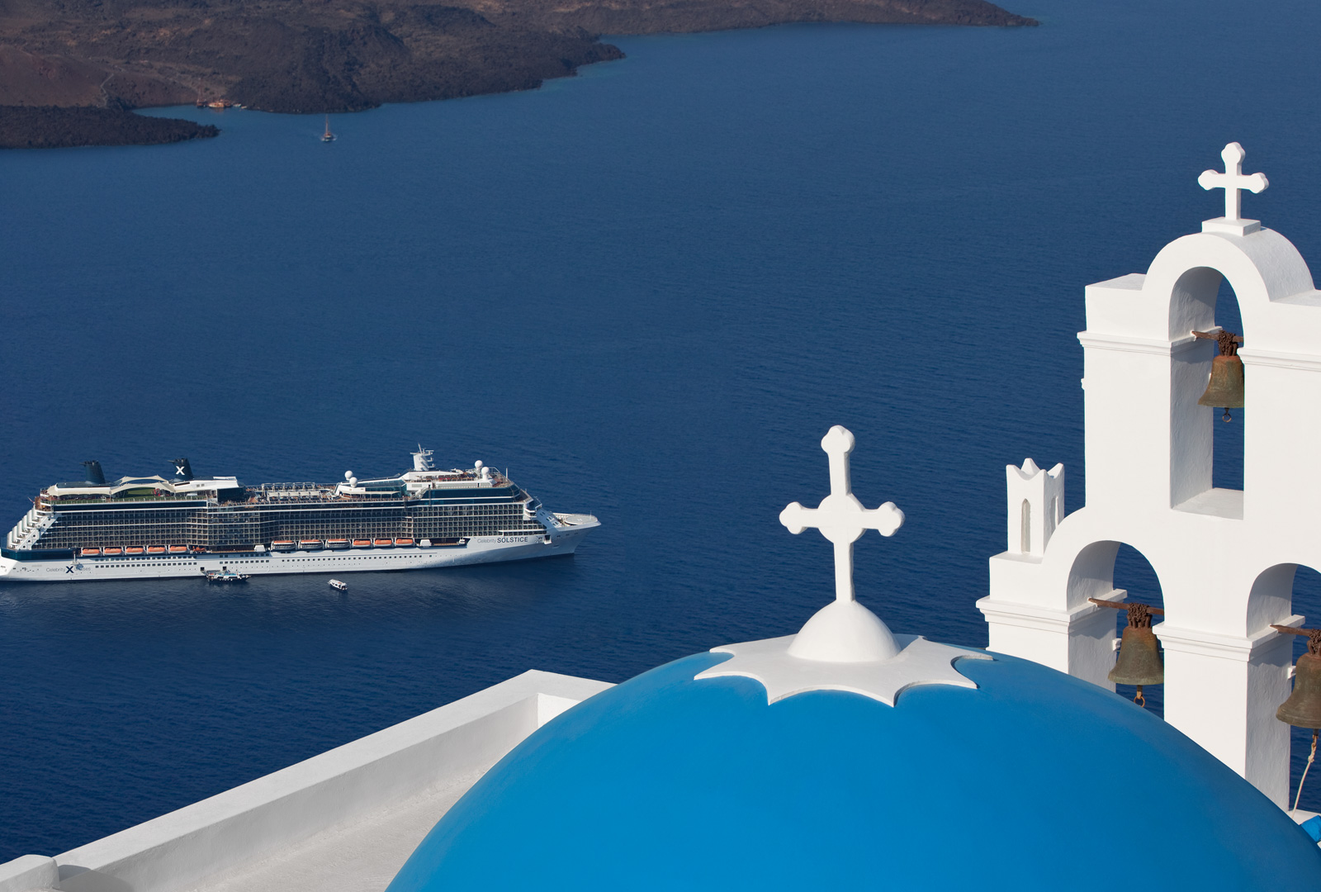
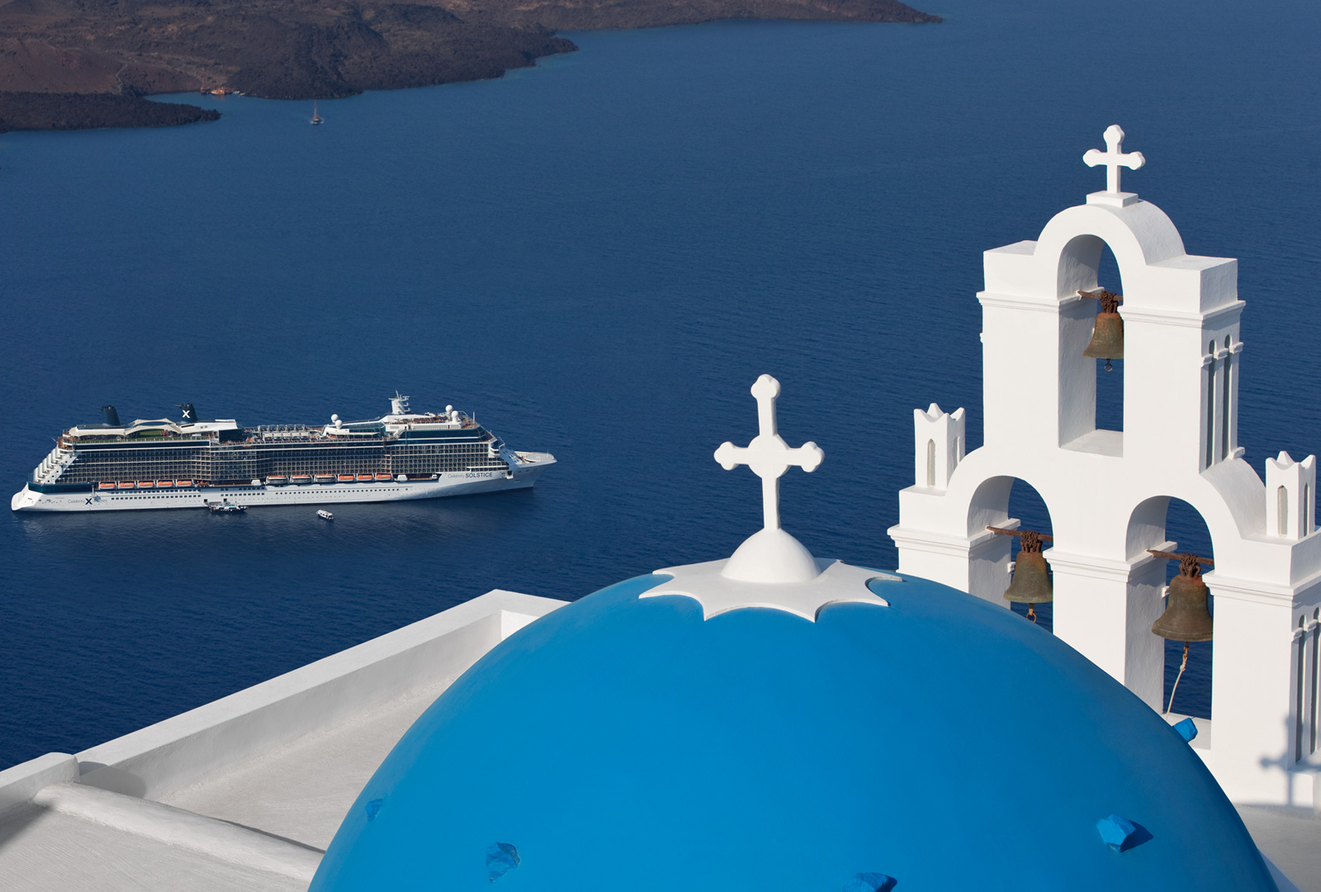
인트로 BG이미지 변경

diff --git a/src/css/celebrity.css b/src/css/celebrity.css
@@ -1,269 +1,1 @@
-@charset "UTF-8";
-/*  Nanum Gothic (Korean) http://www.google.com/webfonts/earlyaccess */
-@font-face { font-family: 'Nanum Gothic'; font-style: normal; font-weight: 700; src: url(../font/NanumGothic-Bold.eot); src: url(../font/NanumGothic-Bold.eot?#iefix) format("embedded-opentype"), url(../font/NanumGothic-Bold.woff2) format("woff2"), url(../font/NanumGothic-Bold.woff) format("woff"), url(../font/NanumGothic-Bold.ttf) format("truetype"); }
-@font-face { font-family: 'Nanum Gothic'; font-style: normal; font-weight: 400; src: url(../font/NanumGothic-Regular.eot); src: url(../font/NanumGothic-Regular.eot?#iefix) format("embedded-opentype"), url(../font/NanumGothic-Regular.woff2) format("woff2"), url(../font/NanumGothic-Regular.woff) format("woff"), url(../font/NanumGothic-Regular.ttf) format("truetype"); }
-@font-face { font-family: 'Nanum Gothic'; font-style: normal; font-weight: 800; src: url(../font/NanumGothic-ExtraBold.eot); src: url(../font/NanumGothic-ExtraBold.eot?#iefix) format("embedded-opentype"), url(../font/NanumGothic-ExtraBold.woff2) format("woff2"), url(../font/NanumGothic-ExtraBold.woff) format("woff"), url(../font/NanumGothic-ExtraBold.ttf) format("truetype"); }
-/* common */
-body, p, h1, h2, h3, h4, h5, h6, menu, ul, ol, li, dl, dt, dd, table, th, td, form, fieldset, legend, input, textarea, button, select { margin: 0; padding: 0; }
-
-body, input, textarea, select, button { font-family: 'Nanum Gothic','Apple SD Gothic Neo','Dotum','돋움',Sans-serif; font-size: 14px; }
-
-img, fieldset { border: 0; }
-
-menu, ul, ol { list-style: none; }
-
-em, address { font-style: normal; }
-
-a, a:link { text-decoration: none; }
-
-/* For Screen Reader */
-legend, .blind { position: absolute; top: 0; left: 0; width: 0; height: 0; overflow: hidden; visibility: hidden; font-size: 0; line-height: 0; }
-
-.ht { position: absolute; }
-
-.blind, .u_skip { visibility: hidden; overflow: hidden; position: absolute; left: -999em; width: 0; height: 0; font-size: 0; color: transparent; line-height: 0; }
-
-.slider-nav button, .footer .bi i, .footer .sns a i, .combobox .arrow, .header .bi i, .wrap.intro .intro_header_cover .bi i, .header .gnb, .header .gnb li, .symbol_ship .combox-box .arrow, .footer .bot_menu .bar, .footer .sns, .combobox, .wrap, .symbol_ship .combox-box, .symbol_thumbnail .grade .thumb_img, .symbol_thumbnail .grade .subs, .symbol_thumbnail .view_membership, .symbol_thumbnail .ask_membership, .info_list .thumbnail .btn_more_bahamas, .info_list .thumbnail .btn_more_bermuda { display: inline-block; *display: inline; *zoom: 1; vertical-align: top; }
-
-.slider-nav button, .footer .bi i, .footer .sns a i, .combobox .arrow, .header .bi i, .wrap.intro .intro_header_cover .bi i, .header .gnb, .header .gnb li, .symbol_ship .combox-box .arrow { background-image: url(../im/sp_gnb.png); background-repeat: no-repeat; vertical-align: top; }
-
-.slider-nav button { background-image: url(../im/sp_slide.png); border: 0; background-color: transparent; }
-
-.footer .bi i, .footer .sns a i, .combobox i.arrow, .header .bi i, .wrap.intro .intro_header_cover .bi i, .header i.gnb, .symbol_ship .combox-box i.arrow, .slider-nav button i, .section_head .tit i, .symbol_thumbnail .view_membership i, .symbol_thumbnail .ask_membership i, .info_list .thumbnail .btn_more i, .info_list .thumbnail .btn_more_bahamas i, .info_list .thumbnail .btn_more_bermuda i, .slider-nav button span { font: 0/0 a; color: transparent; }
-
-.footer .footer_cover, .symbol_thumbnail .grade, .info_list ul { zoom: 1; }
-.footer .footer_cover:after, .symbol_thumbnail .grade:after, .info_list ul:after { content: ''; clear: both; height: 0; display: block; visibility: hidden; }
-
-.footer, .header, .hero, .container, .article, .info_list { width: 916px; margin: 0 auto; position: relative; zoom: 1; }
-
-.wrap { background: url(../im/body_bg/bg_main_body.jpg) no-repeat center top; }
-.wrap.page_intro { background-image: url(../im/body_bg/bg_intro_body.jpg); }
-.wrap.page_club { background-image: url(../im/body_bg/bg_club_body.jpg); }
-.wrap.page_room { background-image: url(../im/body_bg/bg_room_body.jpg); }
-.wrap.page_sail { background-image: url(../im/body_bg/bg_sail_body.jpg); }
-.wrap.page_activity { background-image: url(../im/body_bg/bg_activity_body.jpg); }
-.wrap.page_spa { background-image: url(../im/body_bg/bg_spa_body.jpg); }
-.wrap.page_enter { background-image: url(../im/body_bg/bg_enter_body.jpg); }
-.wrap.page_res { background-image: url(../im/body_bg/bg_res_body.jpg); }
-.wrap.page_ship { background-image: url(../im/body_bg/bg_ship_body.jpg); }
-
-.slider-loading { position: absolute; top: 0; left: 0; }
-.slider-loading .dimmed, .slider-loading .loading { position: absolute; display: block; top: 0; left: 0; width: 100%; height: 100%; }
-.slider-loading .dimmed { filter: alpha(opacity=70); opacity: 0.7; background-color: #000; }
-.slider-loading .loading { background: url(../img/loading.gif) no-repeat center center; }
-
-.slider-body { height: 463px; overflow: hidden; zoom: 1; background-color: #fff; }
-.slider-body .cover { position: absolute; left: 0; top: 0; width: 916px; height: 463px; overflow: hidden; }
-.slider-body .item { position: absolute; background-color: #fff; }
-.slider-body .caption { position: absolute; bottom: 0; right: 0; text-align: right; line-height: 45px; height: 45px; color: #757575; font-size: 1.1em; padding: 0 10px 0 0; }
-.slider-body img { vertical-align: top; }
-
-.slider-nav { position: absolute; bottom: 9px; left: 0; margin: 0; font-size: 0; background-color: #fff; padding: 0 20px 0 5px; }
-.slider-nav button { width: 26px; height: 26px; background-position: 4px -22px; cursor: pointer; margin-left: 5px; }
-.slider-nav button.av { background-position: -23px -22px; }
-
-.footer { width: 1000px; margin-bottom: 40px; }
-.footer .bot_menu { border-top: 6px solid #002f63; padding: 23px 0; line-height: 18px; font-size: 0; text-align: center; }
-.footer .bot_menu a { color: #002f63; font-size: 13px; }
-.footer .bot_menu .bar { height: 14px; border-right: 1px solid #002f63; padding-left: 15px; margin-right: 14px; vertical-align: top; position: relative; top: 2px; }
-.footer .footer_cover { background-color: #002f63; position: relative; zoom: 1; }
-.footer .bi { float: left; padding: 28px 44px 28px 39px; }
-.footer .bi i { width: 160px; height: 34px; background-position: 0 -70px; }
-.footer .copyright { overflow: hidden; padding: 14px 0 0 0; color: #fff; /* 		a{color:#fff;font-size:0.9em} */ /* 		.bar{padding:0 10px;font-size:0.9em} */ }
-.footer .copyright address { font-size: 1em; color: #fff; display: block; margin-bottom: 5px; }
-.footer .copyright p { font-size: 0.85em; line-height: 15px; color: #d1d5dd; }
-.footer .connect_sns { position: absolute; right: 0; top: 0; padding: 14px 29px 29px 0; }
-.footer .sns { color: #fff; line-height: 20px; padding: 3px 0; font-size: 0.9em; }
-.footer .sns a { margin-left: 1px; }
-.footer .sns a i { width: 20px; height: 20px; }
-.footer .facebook i { background-position: -168px -70px; }
-.footer .twitter i { background-position: -193px -70px; }
-.footer .naver i { background-position: -218px -70px; }
-.footer .flickr i { background-position: -243px -70px; }
-.footer .youtube i { background-position: -268px -70px; }
-
-.combobox { position: absolute; right: 29px; top: 44px; zoom: 1; }
-.combobox .cb-button { border: 1px solid #fff; background: transparent; color: #fff; height: 30px; line-height: 30px; padding: 0 12px; box-sizing: content-box; cursor: pointer; white-space: nowrap; min-width: 180px; text-align: left; }
-.combobox .arrow { width: 11px; height: 30px; background-position: -306px -68px; position: absolute; right: 12px; top: 1px; }
-.combobox .cb-layer { position: absolute; width: 100%; top: 100%; margin-top: -1px; }
-.combobox .cb-layer ul { border: 1px solid #fff; background-color: #002f63; border-bottom: 0; }
-.combobox .cb-layer a { color: #fff; display: block; padding: 6px 12px 5px; }
-.combobox .cb-layer a:hover { color: #002f63; background-color: #fff; }
-
-.header .bi, .wrap.intro .intro_header_cover .bi { text-align: center; padding: 50px 0 30px; }
-.header .bi i, .wrap.intro .intro_header_cover .bi i { width: 265px; height: 55px; background-position: -20px 0; }
-
-.wrap { min-width: 100%; }
-
-/* header */
-.header { margin-bottom: 33px; z-index: 30; }
-.header .gnb { background-position: -300px 0; padding: 5px 0 5px 73px; white-space: nowrap; font-size: 0; }
-.header .gnb li { background-color: #fff; line-height: 52px; height: 52px; background-position: 209px 15px; position: relative; white-space: normal; font-size: 14px; }
-.header .gnb li a { color: #666; display: block; text-align: center; font-size: 1.2em; width: 210px; }
-.header .gnb .membership { background-image: none; }
-.header .gnb .reservation { height: 50px; border: 1px solid #299be1; background: url(../im/pt_gnb_reserve.png) repeat-x 0 0 #3baff6; overflow: hidden; }
-.header .gnb .reservation a { color: #fff; }
-.header .gnb .sub { display: none; }
-.header .gnb li.selected a { position: relative; z-index: 20; color: #fff; }
-.header .gnb li.selected .sub { display: block; }
-.header .gnb .sub { position: absolute; top: 0; left: 0; width: 100%; background-color: #002859; padding-top: 55px; padding-bottom: 14px; z-index: 10; line-height: normal; }
-.header .gnb .sub li { background: none transparent; height: auto; line-height: 35px; padding-bottom: 3px; }
-.header .gnb .sub a { font-size: 1.1em; }
-.header .gnb .sub a:hover { color: #299be1; }
-
-.hero { position: relative; margin-bottom: 19px; height: 463px; }
-
-.wrap.intro { position: absolute; top: 0; bottom: 0; left: 0; right: 0; background: none; }
-.wrap.intro .intro_header_cover { position: absolute; top: 50px; width: 100%; z-index: 30; }
-.wrap.intro .intro_header_cover .bi { min-width: 1000px; }
-.wrap.intro .intro_footer_cover { position: absolute; bottom: 40px; z-index: 30; width: 100%; }
-.wrap.intro .intro_footer_cover .footer { margin-bottom: 0; }
-.wrap.intro .intro_content_cover { position: absolute; left: 0; top: 0; width: 100%; height: 100%; z-index: 20; min-width: 1000px; text-align: center; overflow: hidden; cursor: default !important; }
-.wrap.intro .intro_content_cover .skip_intro { position: absolute; top: 0; bottom: 0; left: 0; right: 0; z-index: 30; }
-.wrap.intro .intro_content_cover .skip_intro a { display: block; width: 524px; height: 294px; background: url(../im/intro/intro_eng.png) no-repeat; position: absolute; left: 50%; top: 50%; margin: -146px 0 0 -262px; }
-.wrap.intro .intro_content_cover .skip_intro.lang_ko a { background-image: url(../im/intro/intro_kor.png); }
-.wrap.intro .intro_content_cover #slider_container_main { position: relative; top: 0px; left: 0px; width: 1600px; height: 1080px; overflow: hidden; }
-.wrap.intro .intro_content_cover #slider_container_main .cover { position: absolute; left: 0px; top: 0px; width: 1600px; height: 1080px; overflow: hidden; }
-
-.container { width: 1000px; background-color: #fff; border-top: 7px solid #299be1; }
-
-.page_intro, .page_club, .page_room, .page_sail, .page_activity, .page_spa, .page_enter, .page_res, .page_ship { 	/*
-.slider-body{height:545px}
-	.slider-body .cover{width:920px;height:545px}
-	.slider-body .caption{color:#000;font-size:1.3em;line-height:45px;height:45px;color:#757575;padding:0 10px 0 0;bottom:0;background-color:transparent}
-	.slider-nav{
-		left:0;margin:0;background-color:#fff;padding:0 20px 0 0;
-		button{@extend %sp-slide;width:26px;height:26px;background-position:4px -22px}
-		button.av{background-position:-23px -22px}
-	}	
-*/ }
-.page_intro .header, .page_club .header, .page_room .header, .page_sail .header, .page_activity .header, .page_spa .header, .page_enter .header, .page_res .header, .page_ship .header { margin-bottom: 299px; }
-.page_intro .slider-body, .page_club .slider-body, .page_room .slider-body, .page_sail .slider-body, .page_activity .slider-body, .page_spa .slider-body, .page_enter .slider-body, .page_res .slider-body, .page_ship .slider-body { height: 545px; }
-.page_intro .slider-body .cover, .page_club .slider-body .cover, .page_room .slider-body .cover, .page_sail .slider-body .cover, .page_activity .slider-body .cover, .page_spa .slider-body .cover, .page_enter .slider-body .cover, .page_res .slider-body .cover, .page_ship .slider-body .cover { width: 920px; height: 545px; }
-.page_intro .slider-body .caption, .page_club .slider-body .caption, .page_room .slider-body .caption, .page_sail .slider-body .caption, .page_activity .slider-body .caption, .page_spa .slider-body .caption, .page_enter .slider-body .caption, .page_res .slider-body .caption, .page_ship .slider-body .caption { font-size: 1.3em; }
-.page_intro .hero, .page_club .hero, .page_room .hero, .page_sail .hero, .page_activity .hero, .page_spa .hero, .page_enter .hero, .page_res .hero, .page_ship .hero { height: 545px; }
-
-.article .sub_tit, .symbol_table caption { color: #299be1; font-size: 1.6em; text-align: left; padding-bottom: 8px; font-weight: normal; }
-
-.symbol_thumbnail .grade .thumb_img, .symbol_thumbnail .view_membership, .symbol_thumbnail .ask_membership { background-image: url(../im/img_membership_grade.jpg); background-repeat: no-repeat; }
-
-.section_head { padding: 40px; }
-.section_head .tit { height: 91px; background-repeat: no-repeat; }
-.section_head .section_list { border-collapse: collapse; table-layout: fixed; position: absolute; right: 41px; top: 43px; }
-.section_head .section_list td { border: 1px solid #e4e4e4; text-align: center; line-height: 18px; padding: 5px 5px; letter-spacing: -1px; min-width: 118px; }
-.section_head .section_list td a { color: #999; font-size: 0.85em; }
-.section_head .section_list td.selected { border: 1px solid #299be1; background-color: #299be1; }
-.section_head .section_list td.selected a { color: #fff; }
-
-.page_intro .section_head .tit { background-image: url(../im/tit_head_intro.png); width: 420px; }
-
-.page_club .section_head .tit { background-image: url(../im/tit_head_club.png); width: 492px; }
-
-.page_room .section_head .tit { background-image: url(../im/tit_head_room.png); width: 380px; }
-
-.page_sail .section_head .tit { background-image: url(../im/tit_head_sail.png); width: 380px; }
-
-.page_activity .section_head .tit { background-image: url(../im/tit_head_activity.png); width: 299px; }
-
-.page_spa .section_head .tit { background-image: url(../im/tit_head_spa.png); width: 351px; }
-
-.page_enter .section_head .tit { background-image: url(../im/tit_head_enter.png); width: 416px; }
-
-.page_res .section_head .tit { background-image: url(../im/tit_head_res.png); width: 440px; }
-
-.page_ship .section_head .tit { background-image: url(../im/tit_head_ship.png); width: 490px; }
-
-.article { width: 920px; color: #757575; margin-bottom: 98px; z-index: 20; }
-.article .desc { font-size: 1.6em; line-height: 1.45em; color: #666; }
-.article .info_list { left: -19px; padding-top: 50px; }
-.article .image_cover { display: block; padding-top: 20px; }
-.article .image_cover img { vertical-align: top; }
-.article .btns { text-align: center; padding-top: 20px; }
-
-.symbol_ship { background-repeat: no-repeat; width: 920px; height: 370px; margin-top: 50px; position: relative; zoom: 1; }
-.symbol_ship .tit { color: #fff; font-size: 1.6em; margin-bottom: 10px; padding: 32px 0 0 44px; }
-.symbol_ship .desc { color: #fff; font-size: 1.15em; line-height: 1.5em; width: 350px; padding-left: 44px; }
-.symbol_ship.solstice_class { background-image: url(../im/ship/img_ship_solstice.jpg); z-index: 19; }
-.symbol_ship.millennium_class { background-image: url(../im/ship/img_ship_millennium.jpg); z-index: 18; }
-.symbol_ship.century_class { background-image: url(../im/ship/img_ship_century.jpg); z-index: 17; }
-.symbol_ship.xpedition_class { background-image: url(../im/ship/img_ship_xpedition.jpg); z-index: 16; }
-.symbol_ship .combox-box { position: absolute; top: 289px; left: 45px; }
-.symbol_ship .combox-box .cb-label { width: 100%; text-align: left; background-color: #299be1; color: #fff; border: 0; border-radius: 0; padding: 0 50px 0 15px; height: 50px; line-height: 50px; position: relative; zoom: 1; font-size: 1.2em; cursor: pointer; }
-.symbol_ship .combox-box .arrow { width: 35px; height: 32px; background-position: -339px -72px; position: absolute; right: 14px; top: 9px; }
-.symbol_ship .combox-box .cb-list { background-color: #299be1; height: 0; overflow: hidden; }
-.symbol_ship .combox-box .cb-list a { color: #fff; display: block; height: 38px; line-height: 38px; padding: 0 25px 0 15px; font-size: 1.2em; }
-.symbol_ship .combox-box .cb-list a .en { font-size: 0.7em; }
-.symbol_ship .combox-box .cb-list a:hover { background-color: #002f63; }
-.symbol_ship .combox-box.open .cb-list { height: auto; overflow: visible; }
-
-.symbol_table { padding: 70px 0 40px; }
-.symbol_table table { width: 100%; table-layout: fixed; border-collapse: collapse; }
-.symbol_table th, .symbol_table td { line-height: 20px; padding: 10px 0; text-align: center; font-weight: normal; font-size: 1.2em; }
-.symbol_table th { background-color: #299be1; color: #fff; border: 1px solid #299be1; }
-.symbol_table th:first-child { border-right: 1px solid #e4e4e4; }
-.symbol_table td { border: 1px solid #e4e4e4; color: #666; }
-.symbol_table tfoot td { border: 0; text-align: left; font-size: 1em; }
-
-.symbol_thumbnail .grade { width: 931px; margin-left: -10px; margin-bottom: 42px; }
-.symbol_thumbnail .grade li { width: 300px; height: 350px; margin-left: 10px; float: left; }
-.symbol_thumbnail .grade .thumb_img { width: 300px; height: 181px; margin-bottom: 15px; }
-.symbol_thumbnail .grade strong { font-size: 1.2em; height: 22px; display: block; line-height: 22px; padding-left: 9px; margin-bottom: 10px; position: relative; zoom: 1; }
-.symbol_thumbnail .grade strong .sup { font-size: 0.65em; position: relative; top: -6px; }
-.symbol_thumbnail .grade .credit { position: absolute; right: 0; top: 0; border-radius: 4px; color: #fff; font-size: 0.8em; line-height: 22px; height: 22px; padding: 0 8px; font-weight: normal; }
-.symbol_thumbnail .grade .credit em { font-weight: bold; }
-.symbol_thumbnail .grade .subs { padding-left: 10px; color: #757575; font-size: 1em; line-height: 1.4em; }
-.symbol_thumbnail .grade .preview .thumb_img { background-position: 0 0; }
-.symbol_thumbnail .grade .preview strong { color: #5ba432; }
-.symbol_thumbnail .grade .preview .credit { background-color: #5ba432; }
-.symbol_thumbnail .grade .classic .thumb_img { background-position: -311px 0; }
-.symbol_thumbnail .grade .classic strong { color: #389bd1; }
-.symbol_thumbnail .grade .classic .credit { background-color: #389bd1; }
-.symbol_thumbnail .grade .select .thumb_img { background-position: -621px 0; }
-.symbol_thumbnail .grade .select strong { color: #f1711a; }
-.symbol_thumbnail .grade .select .credit { background-color: #f1711a; }
-.symbol_thumbnail .grade .elite .thumb_img { background-position: 0 -206px; }
-.symbol_thumbnail .grade .elite strong { color: #58595b; }
-.symbol_thumbnail .grade .elite .credit { background-color: #58595b; }
-.symbol_thumbnail .grade .elite_plus .thumb_img { background-position: -311px -206px; }
-.symbol_thumbnail .grade .elite_plus strong { color: #a1231d; }
-.symbol_thumbnail .grade .elite_plus .credit { background-color: #a1231d; }
-.symbol_thumbnail .grade .zenith .thumb_img { background-position: -621px -206px; }
-.symbol_thumbnail .grade .zenith strong { color: #0a0a0a; }
-.symbol_thumbnail .grade .zenith .credit { background-color: #0a0a0a; }
-.symbol_thumbnail .btns { padding-top: 0; }
-.symbol_thumbnail .view_membership, .symbol_thumbnail .ask_membership { width: 380px; height: 68px; background-position: 0 -407px; margin-right: 16px; }
-.symbol_thumbnail .ask_membership { width: 400px; background-position: -400px -407px; margin-right: 0; }
-
-.info_list { width: 954px; margin-bottom: 19px; }
-.info_list li { padding: 19px; float: left; }
-.info_list .thumbnail { width: 280px; height: 190px; position: relative; zoom: 1; cursor: pointer; }
-.info_list .thumbnail img { vertical-align: top; }
-.info_list .thumbnail .subject { position: absolute; left: 0; bottom: 0; width: 100%; height: 35px; color: #fff; z-index: 20; line-height: 35px; text-indent: 12px; font-size: 0.9em; }
-.info_list .thumbnail .deco { position: absolute; left: 0; bottom: 0; width: 100%; height: 35px; background-color: #002859; opacity: 0.9; filter: alpha(opacity=90); z-index: 10; }
-.info_list .thumbnail .desc { position: absolute; top: 50px; left: 0; padding: 0 5px 0 17px; font-size: 0.8em; line-height: 1.7em; z-index: 20; }
-.info_list .thumbnail .btn_more, .info_list .thumbnail .btn_more_bahamas, .info_list .thumbnail .btn_more_bermuda { background: url(../im/img_more.png?1) no-repeat; width: 89px; height: 27px; z-index: 20; display: block; margin-top: 15px; }
-.info_list .thumbnail .desc, .info_list .thumbnail .btn_more, .info_list .thumbnail .btn_more_bahamas, .info_list .thumbnail .btn_more_bermuda { display: none; color: #fff; }
-.info_list .thumbnail .btn_more_bahamas, .info_list .thumbnail .btn_more_bermuda { width: 119px; background-position: 0 -37px; }
-.info_list .thumbnail .btn_more_bermuda { background-position: 0 -74px; }
-.info_list .hover .thumbnail .deco { top: 0; height: 100% !important; }
-.info_list .hover .thumbnail .subject { top: 0; bottom: auto; font-size: 1.45em; font-weight: normal; padding-top: 10px; text-indent: 17px; }
-.info_list .hover .thumbnail .desc, .info_list .hover .thumbnail .btn_more, .info_list .hover .thumbnail .btn_more_bahamas, .info_list .hover .thumbnail .btn_more_bermuda { display: block; }
-.info_list .hover .thumbnail .btn_more_bahamas, .info_list .hover .thumbnail .btn_more_bermuda { display: inline-block; }
-.info_list .hover .thumbnail .en { display: none; }
-.info_list.large_list li { padding: 19px 18px; }
-.info_list.large_list .thumbnail { width: 440px; height: 300px; }
-.info_list.large_list .thumbnail .subject { height: 45px; line-height: 45px; font-size: 1.15em; }
-.info_list.large_list .thumbnail .deco { height: 45px; }
-.info_list.large_list .thumbnail .btn_more, .info_list.large_list .thumbnail .btn_more_bahamas, .info_list.large_list .thumbnail .btn_more_bermuda { background-position: 0 -111px; width: 102px; }
-.info_list.large_list .hover .thumbnail .desc { font-size: 0.95em; }
-
-.symbol_intro { border: 2px solid #eaeaea; padding: 43px 43px 50px; margin: 70px 0 0; }
-.symbol_intro .image { margin-bottom: 40px; }
-.symbol_intro .image img { vertical-align: top; }
-.symbol_intro .desc { text-align: center; font-size: 1.3em; line-height: 1.6em; letter-spacing: -1px; }
-.symbol_intro .large_txt { font-size: 1.3em; line-height: 1.8em; }
-.symbol_intro .large_txt strong { color: #003468; }
-.symbol_intro .part { background: url(../im/ico_intro_bullet.png) no-repeat center top; padding-top: 50px; margin-top: 20px; text-align: center; }
-.symbol_intro .part h4 { font-size: 1.9em; color: #299be1; margin-bottom: 10px; }
-
-/*# sourceMappingURL=celebrity.css.map */
+@charset "UTF-8";@font-face{font-family:'Nanum Gothic';font-style:normal;font-weight:700;src:url(../font/NanumGothic-Bold.eot);src:url(../font/NanumGothic-Bold.eot?#iefix) format("embedded-opentype"),url(../font/NanumGothic-Bold.woff2) format("woff2"),url(../font/NanumGothic-Bold.woff) format("woff"),url(../font/NanumGothic-Bold.ttf) format("truetype")}@font-face{font-family:'Nanum Gothic';font-style:normal;font-weight:400;src:url(../font/NanumGothic-Regular.eot);src:url(../font/NanumGothic-Regular.eot?#iefix) format("embedded-opentype"),url(../font/NanumGothic-Regular.woff2) format("woff2"),url(../font/NanumGothic-Regular.woff) format("woff"),url(../font/NanumGothic-Regular.ttf) format("truetype")}@font-face{font-family:'Nanum Gothic';font-style:normal;font-weight:800;src:url(../font/NanumGothic-ExtraBold.eot);src:url(../font/NanumGothic-ExtraBold.eot?#iefix) format("embedded-opentype"),url(../font/NanumGothic-ExtraBold.woff2) format("woff2"),url(../font/NanumGothic-ExtraBold.woff) format("woff"),url(../font/NanumGothic-ExtraBold.ttf) format("truetype")}body,p,h1,h2,h3,h4,h5,h6,menu,ul,ol,li,dl,dt,dd,table,th,td,form,fieldset,legend,input,textarea,button,select{margin:0;padding:0}body,input,textarea,select,button{font-family:'Nanum Gothic','Apple SD Gothic Neo','Dotum','돋움',Sans-serif;font-size:14px}img,fieldset{border:0}menu,ul,ol{list-style:none}em,address{font-style:normal}a,a:link{text-decoration:none}legend,.blind{position:absolute;top:0;left:0;width:0;height:0;overflow:hidden;visibility:hidden;font-size:0;line-height:0}.ht{position:absolute}.blind,.u_skip{visibility:hidden;overflow:hidden;position:absolute;left:-999em;width:0;height:0;font-size:0;color:transparent;line-height:0}.slider-nav button,.footer .bi i,.footer .sns a i,.combobox .arrow,.header .bi i,.wrap.intro .intro_header_cover .bi i,.header .gnb,.header .gnb li,.symbol_ship .combox-box .arrow,.footer .bot_menu .bar,.footer .sns,.combobox,.wrap,.symbol_ship .combox-box,.symbol_thumbnail .grade .thumb_img,.symbol_thumbnail .grade .subs,.symbol_thumbnail .view_membership,.symbol_thumbnail .ask_membership,.info_list .thumbnail .btn_more_bahamas,.info_list .thumbnail .btn_more_bermuda{display:inline-block;*display:inline;*zoom:1;vertical-align:top}.slider-nav button,.footer .bi i,.footer .sns a i,.combobox .arrow,.header .bi i,.wrap.intro .intro_header_cover .bi i,.header .gnb,.header .gnb li,.symbol_ship .combox-box .arrow{background-image:url(../im/sp_gnb.png);background-repeat:no-repeat;vertical-align:top}.slider-nav button{background-image:url(../im/sp_slide.png);border:0;background-color:transparent}.footer .bi i,.footer .sns a i,.combobox i.arrow,.header .bi i,.wrap.intro .intro_header_cover .bi i,.header i.gnb,.symbol_ship .combox-box i.arrow,.slider-nav button i,.section_head .tit i,.symbol_thumbnail .view_membership i,.symbol_thumbnail .ask_membership i,.info_list .thumbnail .btn_more i,.info_list .thumbnail .btn_more_bahamas i,.info_list .thumbnail .btn_more_bermuda i,.slider-nav button span{font:0/0 a;color:transparent}.footer .footer_cover,.symbol_thumbnail .grade,.info_list ul{zoom:1}.footer .footer_cover:after,.symbol_thumbnail .grade:after,.info_list ul:after{content:'';clear:both;height:0;display:block;visibility:hidden}.footer,.header,.hero,.container,.article,.info_list{width:916px;margin:0 auto;position:relative;zoom:1}.wrap{background:url(../im/body_bg/bg_main_body.jpg) no-repeat center top}.wrap.page_intro{background-image:url(../im/body_bg/bg_intro_body.jpg)}.wrap.page_club{background-image:url(../im/body_bg/bg_club_body.jpg)}.wrap.page_room{background-image:url(../im/body_bg/bg_room_body.jpg)}.wrap.page_sail{background-image:url(../im/body_bg/bg_sail_body.jpg)}.wrap.page_activity{background-image:url(../im/body_bg/bg_activity_body.jpg)}.wrap.page_spa{background-image:url(../im/body_bg/bg_spa_body.jpg)}.wrap.page_enter{background-image:url(../im/body_bg/bg_enter_body.jpg)}.wrap.page_res{background-image:url(../im/body_bg/bg_res_body.jpg)}.wrap.page_ship{background-image:url(../im/body_bg/bg_ship_body.jpg)}.slider-loading{position:absolute;top:0;left:0}.slider-loading .dimmed,.slider-loading .loading{position:absolute;display:block;top:0;left:0;width:100%;height:100%}.slider-loading .dimmed{filter:alpha(opacity=70);opacity:0.7;background-color:#000}.slider-loading .loading{background:url(../img/loading.gif) no-repeat center center}.slider-body{height:463px;overflow:hidden;zoom:1;background-color:#fff}.slider-body .cover{position:absolute;left:0;top:0;width:916px;height:463px;overflow:hidden}.slider-body .item{position:absolute;background-color:#fff}.slider-body .caption{position:absolute;bottom:0;right:0;text-align:right;line-height:45px;height:45px;color:#757575;font-size:1.1em;padding:0 10px 0 0}.slider-body img{vertical-align:top}.slider-nav{position:absolute;bottom:9px;left:0;margin:0;font-size:0;background-color:#fff;padding:0 20px 0 5px}.slider-nav button{width:26px;height:26px;background-position:4px -22px;cursor:pointer;margin-left:5px}.slider-nav button.av{background-position:-23px -22px}.footer{width:1000px;margin-bottom:40px}.footer .bot_menu{border-top:6px solid #002f63;padding:23px 0;line-height:18px;font-size:0;text-align:center}.footer .bot_menu a{color:#002f63;font-size:13px}.footer .bot_menu .bar{height:14px;border-right:1px solid #002f63;padding-left:15px;margin-right:14px;vertical-align:top;position:relative;top:2px}.footer .footer_cover{background-color:#002f63;position:relative;zoom:1}.footer .bi{float:left;padding:28px 44px 28px 39px}.footer .bi i{width:160px;height:34px;background-position:0 -70px}.footer .copyright{overflow:hidden;padding:14px 0 0 0;color:#fff}.footer .copyright address{font-size:1em;color:#fff;display:block;margin-bottom:5px}.footer .copyright p{font-size:0.85em;line-height:15px;color:#d1d5dd}.footer .connect_sns{position:absolute;right:0;top:0;padding:14px 29px 29px 0}.footer .sns{color:#fff;line-height:20px;padding:3px 0;font-size:0.9em}.footer .sns a{margin-left:1px}.footer .sns a i{width:20px;height:20px}.footer .facebook i{background-position:-168px -70px}.footer .twitter i{background-position:-193px -70px}.footer .naver i{background-position:-218px -70px}.footer .flickr i{background-position:-243px -70px}.footer .youtube i{background-position:-268px -70px}.combobox{position:absolute;right:29px;top:44px;zoom:1}.combobox .cb-button{border:1px solid #fff;background:transparent;color:#fff;height:30px;line-height:30px;padding:0 12px;box-sizing:content-box;cursor:pointer;white-space:nowrap;min-width:180px;text-align:left}.combobox .arrow{width:11px;height:30px;background-position:-306px -68px;position:absolute;right:12px;top:1px}.combobox .cb-layer{position:absolute;width:100%;top:100%;margin-top:-1px}.combobox .cb-layer ul{border:1px solid #fff;background-color:#002f63;border-bottom:0}.combobox .cb-layer a{color:#fff;display:block;padding:6px 12px 5px}.combobox .cb-layer a:hover{color:#002f63;background-color:#fff}.header .bi,.wrap.intro .intro_header_cover .bi{text-align:center;padding:50px 0 30px}.header .bi i,.wrap.intro .intro_header_cover .bi i{width:265px;height:55px;background-position:-20px 0}.wrap{min-width:100%}.header{margin-bottom:33px;z-index:30}.header .gnb{background-position:-300px 0;padding:5px 0 5px 73px;white-space:nowrap;font-size:0}.header .gnb li{background-color:#fff;line-height:52px;height:52px;background-position:209px 15px;position:relative;white-space:normal;font-size:14px}.header .gnb li a{color:#666;display:block;text-align:center;font-size:1.2em;width:210px}.header .gnb .membership{background-image:none}.header .gnb .reservation{height:50px;border:1px solid #299be1;background:url(../im/pt_gnb_reserve.png) repeat-x 0 0 #3baff6;overflow:hidden}.header .gnb .reservation a{color:#fff}.header .gnb .sub{display:none}.header .gnb li.selected a{position:relative;z-index:20;color:#fff}.header .gnb li.selected .sub{display:block}.header .gnb .sub{position:absolute;top:0;left:0;width:100%;background-color:#002859;padding-top:55px;padding-bottom:14px;z-index:10;line-height:normal}.header .gnb .sub li{background:none transparent;height:auto;line-height:35px;padding-bottom:3px}.header .gnb .sub a{font-size:1.1em}.header .gnb .sub a:hover{color:#299be1}.hero{position:relative;margin-bottom:19px;height:463px}.wrap.intro{position:absolute;top:0;bottom:0;left:0;right:0;background:none}.wrap.intro .intro_header_cover{position:absolute;top:50px;width:100%;z-index:30}.wrap.intro .intro_header_cover .bi{min-width:1000px}.wrap.intro .intro_footer_cover{position:absolute;bottom:40px;z-index:30;width:100%}.wrap.intro .intro_footer_cover .footer{margin-bottom:0}.wrap.intro .intro_content_cover{position:absolute;left:0;top:0;width:100%;height:100%;z-index:20;min-width:1000px;text-align:center;overflow:hidden;cursor:default !important}.wrap.intro .intro_content_cover .skip_intro{position:absolute;top:0;bottom:0;left:0;right:0;z-index:30}.wrap.intro .intro_content_cover .skip_intro a{display:block;width:430px;height:320px;background:url(../im/intro/intro_txt_eng.png?3) no-repeat;position:absolute;left:50%;top:50%;margin:-160px 0 0 -215px}.wrap.intro .intro_content_cover .skip_intro.lang_ko a{background-image:url(../im/intro/intro_txt_kor.png)}.wrap.intro .intro_content_cover #slider_container_main{position:relative;top:0px;left:0px;width:1600px;height:1080px;overflow:hidden}.wrap.intro .intro_content_cover #slider_container_main .cover{position:absolute;left:0px;top:0px;width:1600px;height:1080px;overflow:hidden}.container{width:1000px;background-color:#fff;border-top:7px solid #299be1}.page_intro .header,.page_club .header,.page_room .header,.page_sail .header,.page_activity .header,.page_spa .header,.page_enter .header,.page_res .header,.page_ship .header{margin-bottom:299px}.page_intro .slider-body,.page_club .slider-body,.page_room .slider-body,.page_sail .slider-body,.page_activity .slider-body,.page_spa .slider-body,.page_enter .slider-body,.page_res .slider-body,.page_ship .slider-body{height:545px}.page_intro .slider-body .cover,.page_club .slider-body .cover,.page_room .slider-body .cover,.page_sail .slider-body .cover,.page_activity .slider-body .cover,.page_spa .slider-body .cover,.page_enter .slider-body .cover,.page_res .slider-body .cover,.page_ship .slider-body .cover{width:920px;height:545px}.page_intro .slider-body .caption,.page_club .slider-body .caption,.page_room .slider-body .caption,.page_sail .slider-body .caption,.page_activity .slider-body .caption,.page_spa .slider-body .caption,.page_enter .slider-body .caption,.page_res .slider-body .caption,.page_ship .slider-body .caption{font-size:1.3em}.page_intro .hero,.page_club .hero,.page_room .hero,.page_sail .hero,.page_activity .hero,.page_spa .hero,.page_enter .hero,.page_res .hero,.page_ship .hero{height:545px}.article .sub_tit,.symbol_table caption{color:#299be1;font-size:1.6em;text-align:left;padding-bottom:8px;font-weight:normal}.symbol_thumbnail .grade .thumb_img,.symbol_thumbnail .view_membership,.symbol_thumbnail .ask_membership{background-image:url(../im/img_membership_grade.jpg);background-repeat:no-repeat}.section_head{padding:40px}.section_head .tit{height:91px;background-repeat:no-repeat}.section_head .section_list{border-collapse:collapse;table-layout:fixed;position:absolute;right:41px;top:43px}.section_head .section_list td{border:1px solid #e4e4e4;text-align:center;line-height:18px;padding:5px 5px;letter-spacing:-1px;min-width:118px}.section_head .section_list td a{color:#999;font-size:0.85em}.section_head .section_list td.selected{border:1px solid #299be1;background-color:#299be1}.section_head .section_list td.selected a{color:#fff}.page_intro .section_head .tit{background-image:url(../im/tit_head_intro.png);width:420px}.page_club .section_head .tit{background-image:url(../im/tit_head_club.png);width:492px}.page_room .section_head .tit{background-image:url(../im/tit_head_room.png);width:380px}.page_sail .section_head .tit{background-image:url(../im/tit_head_sail.png);width:380px}.page_activity .section_head .tit{background-image:url(../im/tit_head_activity.png);width:299px}.page_spa .section_head .tit{background-image:url(../im/tit_head_spa.png);width:351px}.page_enter .section_head .tit{background-image:url(../im/tit_head_enter.png);width:416px}.page_res .section_head .tit{background-image:url(../im/tit_head_res.png);width:440px}.page_ship .section_head .tit{background-image:url(../im/tit_head_ship.png);width:490px}.article{width:920px;color:#757575;margin-bottom:98px;z-index:20}.article .desc{font-size:1.6em;line-height:1.45em;color:#666}.article .info_list{left:-19px;padding-top:50px}.article .image_cover{display:block;padding-top:20px}.article .image_cover img{vertical-align:top}.article .btns{text-align:center;padding-top:20px}.symbol_ship{background-repeat:no-repeat;width:920px;height:370px;margin-top:50px;position:relative;zoom:1}.symbol_ship .tit{color:#fff;font-size:1.6em;margin-bottom:10px;padding:32px 0 0 44px}.symbol_ship .desc{color:#fff;font-size:1.15em;line-height:1.5em;width:350px;padding-left:44px}.symbol_ship.solstice_class{background-image:url(../im/ship/img_ship_solstice.jpg);z-index:19}.symbol_ship.millennium_class{background-image:url(../im/ship/img_ship_millennium.jpg);z-index:18}.symbol_ship.century_class{background-image:url(../im/ship/img_ship_century.jpg);z-index:17}.symbol_ship.xpedition_class{background-image:url(../im/ship/img_ship_xpedition.jpg);z-index:16}.symbol_ship .combox-box{position:absolute;top:289px;left:45px}.symbol_ship .combox-box .cb-label{width:100%;text-align:left;background-color:#299be1;color:#fff;border:0;border-radius:0;padding:0 50px 0 15px;height:50px;line-height:50px;position:relative;zoom:1;font-size:1.2em;cursor:pointer}.symbol_ship .combox-box .arrow{width:35px;height:32px;background-position:-339px -72px;position:absolute;right:14px;top:9px}.symbol_ship .combox-box .cb-list{background-color:#299be1;height:0;overflow:hidden}.symbol_ship .combox-box .cb-list a{color:#fff;display:block;height:38px;line-height:38px;padding:0 25px 0 15px;font-size:1.2em}.symbol_ship .combox-box .cb-list a .en{font-size:0.7em}.symbol_ship .combox-box .cb-list a:hover{background-color:#002f63}.symbol_ship .combox-box.open .cb-list{height:auto;overflow:visible}.symbol_table{padding:70px 0 40px}.symbol_table table{width:100%;table-layout:fixed;border-collapse:collapse}.symbol_table th,.symbol_table td{line-height:20px;padding:10px 0;text-align:center;font-weight:normal;font-size:1.2em}.symbol_table th{background-color:#299be1;color:#fff;border:1px solid #299be1}.symbol_table th:first-child{border-right:1px solid #e4e4e4}.symbol_table td{border:1px solid #e4e4e4;color:#666}.symbol_table tfoot td{border:0;text-align:left;font-size:1em}.symbol_thumbnail .grade{width:931px;margin-left:-10px;margin-bottom:42px}.symbol_thumbnail .grade li{width:300px;height:350px;margin-left:10px;float:left}.symbol_thumbnail .grade .thumb_img{width:300px;height:181px;margin-bottom:15px}.symbol_thumbnail .grade strong{font-size:1.2em;height:22px;display:block;line-height:22px;padding-left:9px;margin-bottom:10px;position:relative;zoom:1}.symbol_thumbnail .grade strong .sup{font-size:0.65em;position:relative;top:-6px}.symbol_thumbnail .grade .credit{position:absolute;right:0;top:0;border-radius:4px;color:#fff;font-size:0.8em;line-height:22px;height:22px;padding:0 8px;font-weight:normal}.symbol_thumbnail .grade .credit em{font-weight:bold}.symbol_thumbnail .grade .subs{padding-left:10px;color:#757575;font-size:1em;line-height:1.4em}.symbol_thumbnail .grade .preview .thumb_img{background-position:0 0}.symbol_thumbnail .grade .preview strong{color:#5ba432}.symbol_thumbnail .grade .preview .credit{background-color:#5ba432}.symbol_thumbnail .grade .classic .thumb_img{background-position:-311px 0}.symbol_thumbnail .grade .classic strong{color:#389bd1}.symbol_thumbnail .grade .classic .credit{background-color:#389bd1}.symbol_thumbnail .grade .select .thumb_img{background-position:-621px 0}.symbol_thumbnail .grade .select strong{color:#f1711a}.symbol_thumbnail .grade .select .credit{background-color:#f1711a}.symbol_thumbnail .grade .elite .thumb_img{background-position:0 -206px}.symbol_thumbnail .grade .elite strong{color:#58595b}.symbol_thumbnail .grade .elite .credit{background-color:#58595b}.symbol_thumbnail .grade .elite_plus .thumb_img{background-position:-311px -206px}.symbol_thumbnail .grade .elite_plus strong{color:#a1231d}.symbol_thumbnail .grade .elite_plus .credit{background-color:#a1231d}.symbol_thumbnail .grade .zenith .thumb_img{background-position:-621px -206px}.symbol_thumbnail .grade .zenith strong{color:#0a0a0a}.symbol_thumbnail .grade .zenith .credit{background-color:#0a0a0a}.symbol_thumbnail .btns{padding-top:0}.symbol_thumbnail .view_membership,.symbol_thumbnail .ask_membership{width:380px;height:68px;background-position:0 -407px;margin-right:16px}.symbol_thumbnail .ask_membership{width:400px;background-position:-400px -407px;margin-right:0}.info_list{width:954px;margin-bottom:19px}.info_list li{padding:19px;float:left}.info_list .thumbnail{width:280px;height:190px;position:relative;zoom:1;cursor:pointer}.info_list .thumbnail img{vertical-align:top}.info_list .thumbnail .subject{position:absolute;left:0;bottom:0;width:100%;height:35px;color:#fff;z-index:20;line-height:35px;text-indent:12px;font-size:0.9em}.info_list .thumbnail .deco{position:absolute;left:0;bottom:0;width:100%;height:35px;background-color:#002859;opacity:0.9;filter:alpha(opacity=90);z-index:10}.info_list .thumbnail .desc{position:absolute;top:50px;left:0;padding:0 5px 0 17px;font-size:0.8em;line-height:1.7em;z-index:20}.info_list .thumbnail .btn_more,.info_list .thumbnail .btn_more_bahamas,.info_list .thumbnail .btn_more_bermuda{background:url(../im/img_more.png?1) no-repeat;width:89px;height:27px;z-index:20;display:block;margin-top:15px}.info_list .thumbnail .desc,.info_list .thumbnail .btn_more,.info_list .thumbnail .btn_more_bahamas,.info_list .thumbnail .btn_more_bermuda{display:none;color:#fff}.info_list .thumbnail .btn_more_bahamas,.info_list .thumbnail .btn_more_bermuda{width:119px;background-position:0 -37px}.info_list .thumbnail .btn_more_bermuda{background-position:0 -74px}.info_list .hover .thumbnail .deco{top:0;height:100% !important}.info_list .hover .thumbnail .subject{top:0;bottom:auto;font-size:1.45em;font-weight:normal;padding-top:10px;text-indent:17px}.info_list .hover .thumbnail .desc,.info_list .hover .thumbnail .btn_more,.info_list .hover .thumbnail .btn_more_bahamas,.info_list .hover .thumbnail .btn_more_bermuda{display:block}.info_list .hover .thumbnail .btn_more_bahamas,.info_list .hover .thumbnail .btn_more_bermuda{display:inline-block}.info_list .hover .thumbnail .en{display:none}.info_list.large_list li{padding:19px 18px}.info_list.large_list .thumbnail{width:440px;height:300px}.info_list.large_list .thumbnail .subject{height:45px;line-height:45px;font-size:1.15em}.info_list.large_list .thumbnail .deco{height:45px}.info_list.large_list .thumbnail .btn_more,.info_list.large_list .thumbnail .btn_more_bahamas,.info_list.large_list .thumbnail .btn_more_bermuda{background-position:0 -111px;width:102px}.info_list.large_list .hover .thumbnail .desc{font-size:0.95em}.symbol_intro{border:2px solid #eaeaea;padding:43px 43px 50px;margin:70px 0 0}.symbol_intro .image{margin-bottom:40px}.symbol_intro .image img{vertical-align:top}.symbol_intro .desc{text-align:center;font-size:1.3em;line-height:1.6em;letter-spacing:-1px}.symbol_intro .large_txt{font-size:1.3em;line-height:1.8em}.symbol_intro .large_txt strong{color:#003468}.symbol_intro .part{background:url(../im/ico_intro_bullet.png) no-repeat center top;padding-top:50px;margin-top:20px;text-align:center}.symbol_intro .part h4{font-size:1.9em;color:#299be1;margin-bottom:10px}

diff --git a/src/scss/page/_main.scss b/src/scss/page/_main.scss
@@ -53,8 +53,8 @@
 	.intro_content_cover{
 		position:absolute;left:0;top:0;width:100%;height:100%;z-index:20;min-width:1000px;text-align:center;overflow:hidden;cursor:default!important;		
 		.skip_intro{position:absolute;top:0;bottom:0;left:0;right:0;z-index:30}
-		.skip_intro a{display:block;width:524px;height:294px;background:url(../im/intro/intro_eng.png) no-repeat;position:absolute;left:50%;top:50%;margin:-146px 0 0 -262px}
-		.skip_intro.lang_ko a{background-image:url(../im/intro/intro_kor.png)}
+		.skip_intro a{display:block;width:430px;height:320px;background:url(../im/intro/intro_txt_eng.png?3) no-repeat;position:absolute;left:50%;top:50%;margin:-160px 0 0 -215px}
+		.skip_intro.lang_ko a{background-image:url(../im/intro/intro_txt_kor.png)}
 		
 		#slider_container_main{position:relative;top:0px;left:0px;width:1600px;height:1080px;overflow:hidden;}
 		#slider_container_main .cover{position:absolute;left:0px;top:0px;width:1600px;height:1080px;overflow:hidden;}
